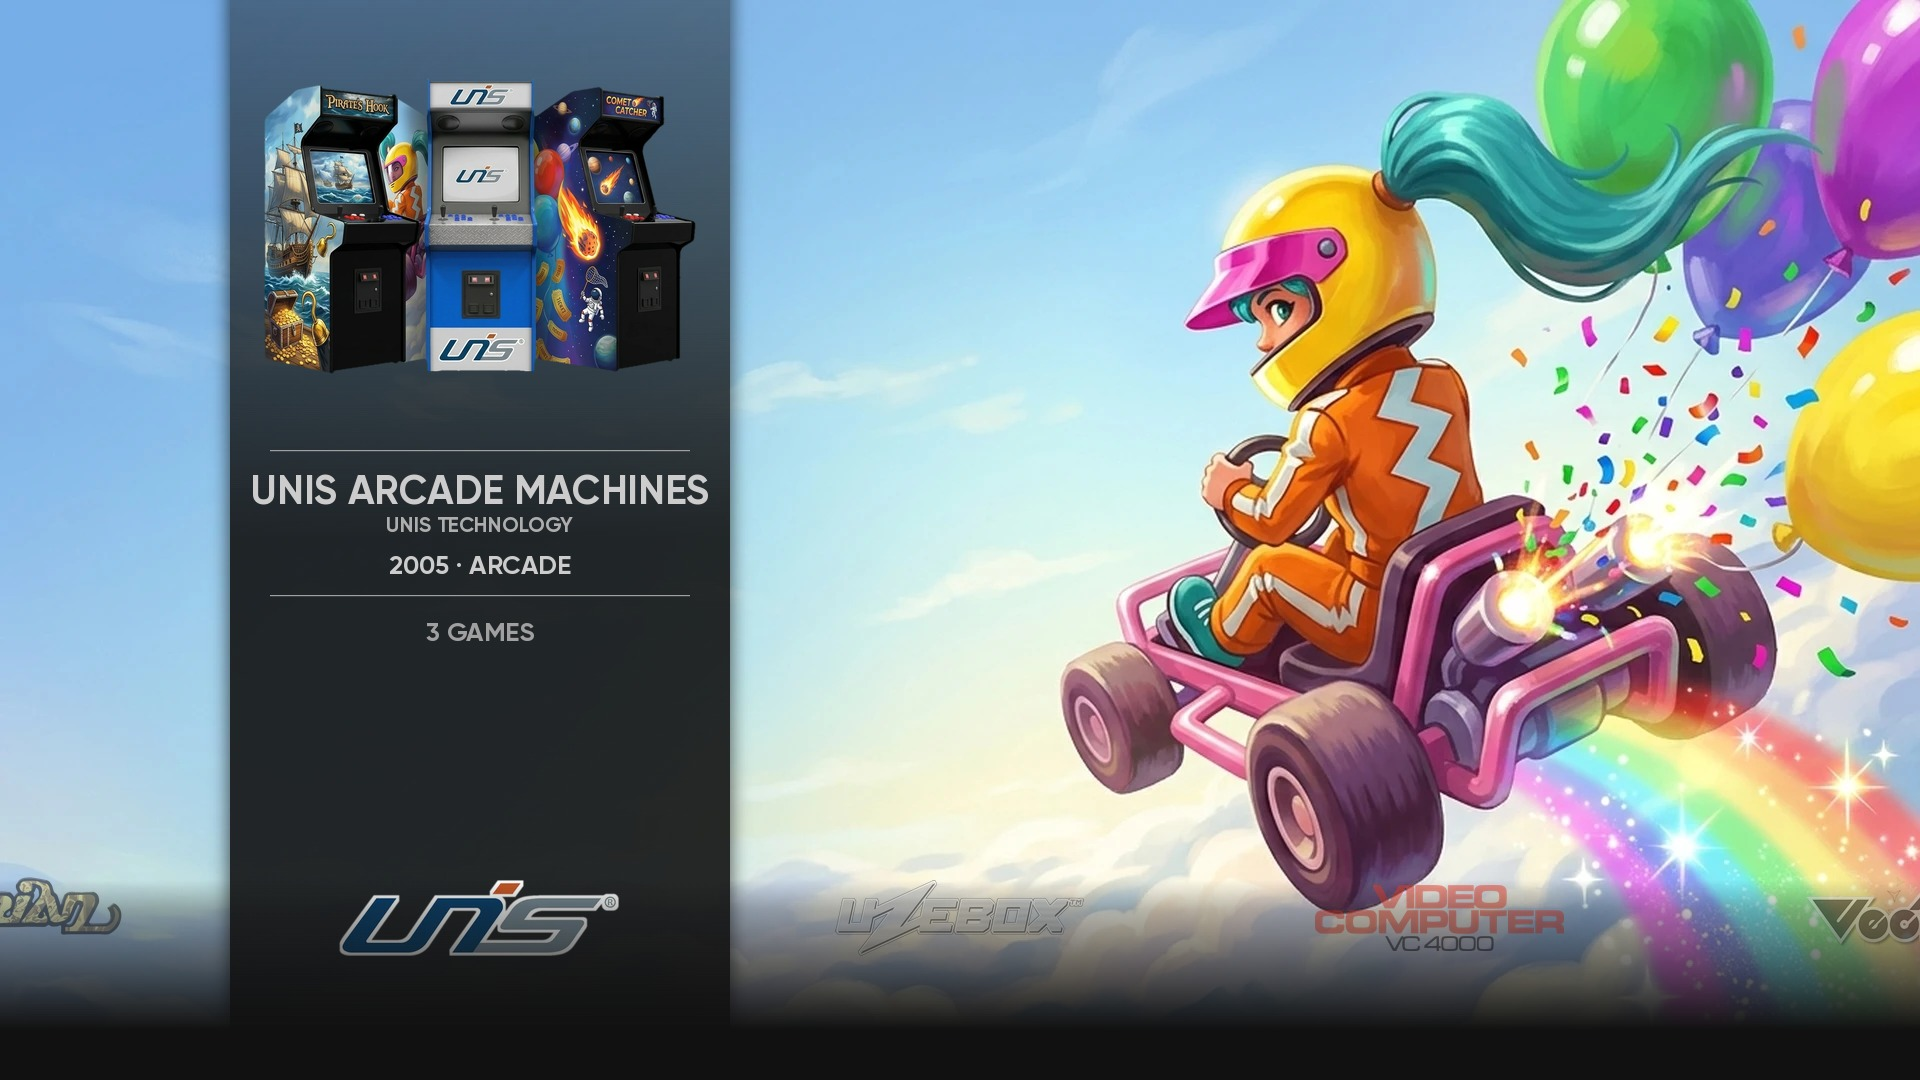
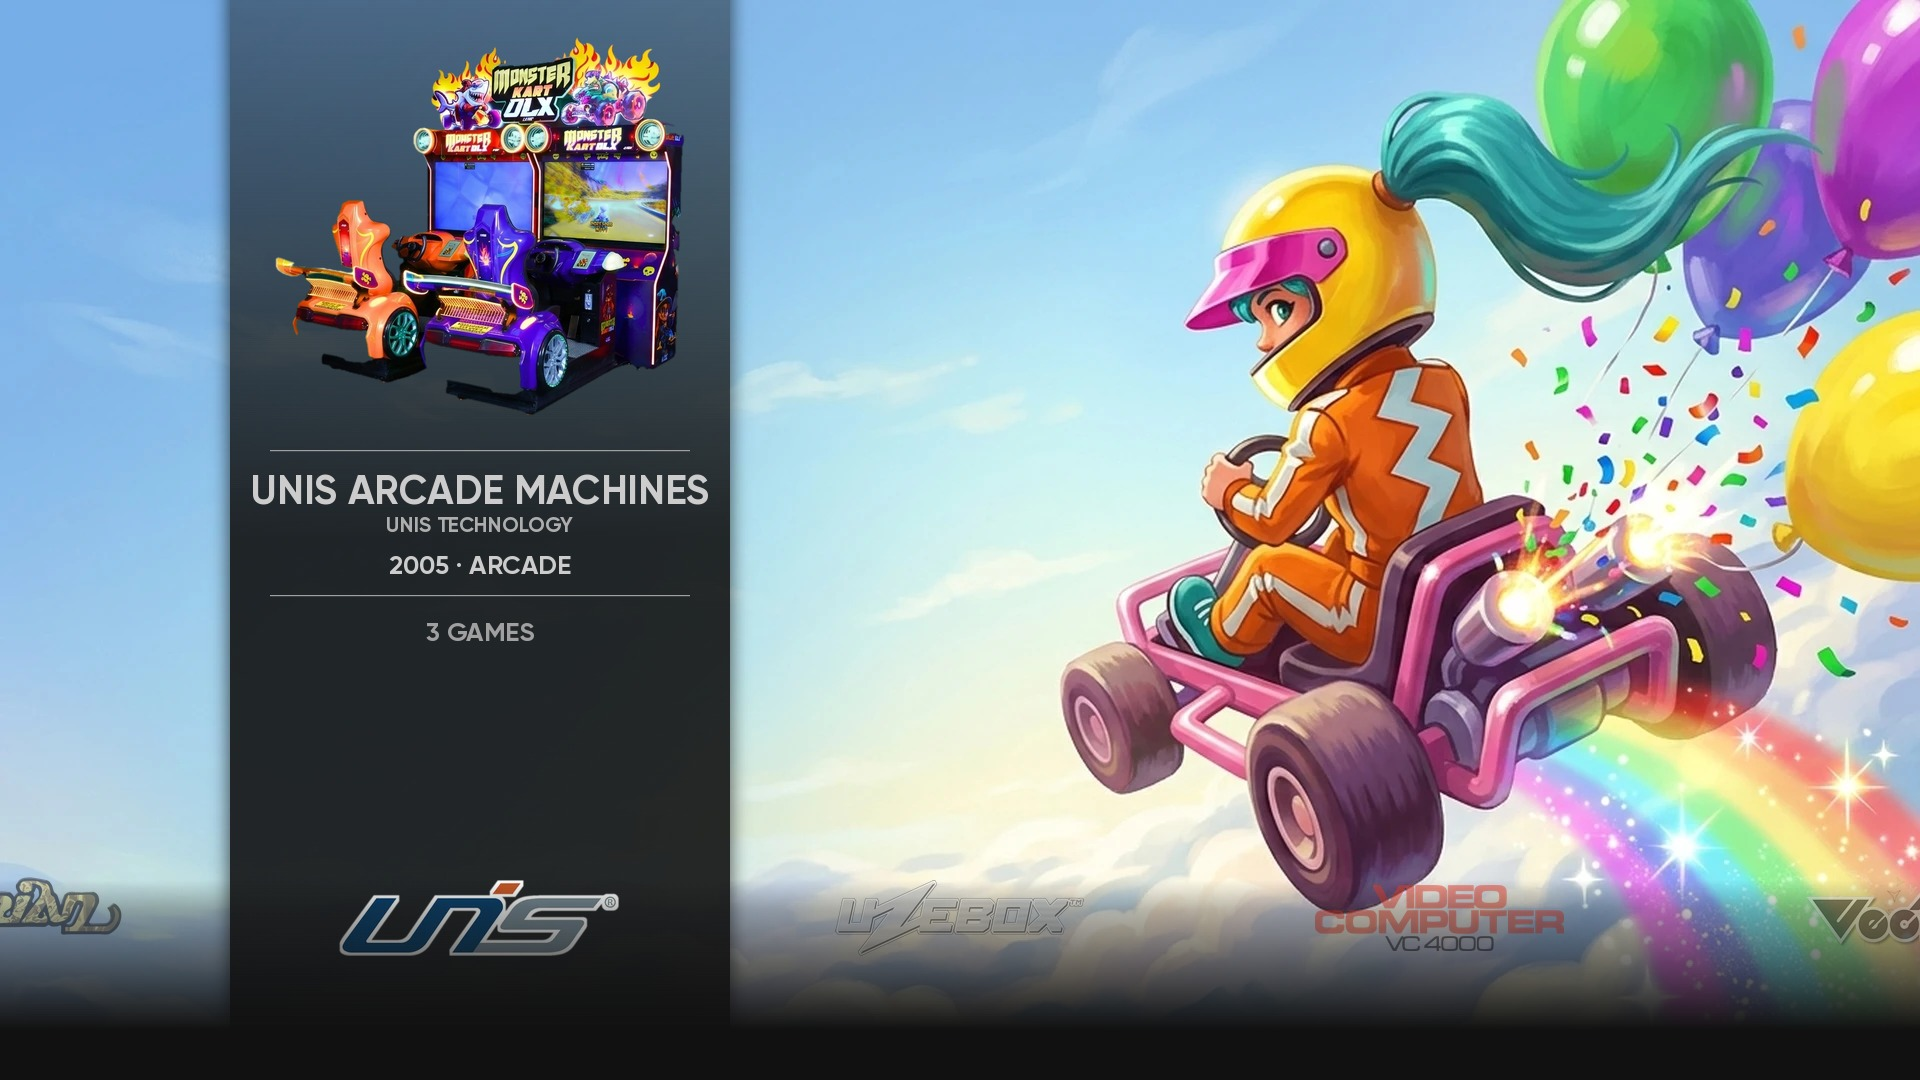
unis: use the real UNIS Monster Kart DLX kart cabinet as the system image
Claude-Session: https://claude.ai/code/session_01LEK4aEijtWqzGzXe9pLeKc

Changed region(s): [[0.125, 0.0306, 0.375, 0.3972]]

diff --git a/CREDITS-TPN.md b/CREDITS-TPN.md
@@ -73,7 +73,7 @@ Per-system sources are listed in _tools/salvage_log.tsv.
 - PolyGame Master (igspgm): background and three-cabinet system image generated with Google Gemini (original general and boar, inspired by Oriental Legend / Knights of Valour); logo from the TPN Carbon theme, sticker-styled.
 - Sony ZN (zinc): background and three-cabinet system image generated with Google Gemini (side cabinets show the real games Rival Schools and Street Fighter EX2 Plus, artwork Gemini-generated in the games' style; background an original schoolboy); logo from the TPN Carbon theme, sticker-styled.
 - Gaelco PowerVR (gaelco): background generated with Google Gemini (original pizza courier, inspired by Radikal Bikers); system image is the TPN Carbon PixN Gaelco A.V. TRACK cabinet; logo from the TPN Carbon theme, sticker-styled.
-- UNIS Arcade Machines (unis): background and three-cabinet system image generated with Google Gemini (original kart racer; side cabinets show the real UNIS games Pirate's Hook and Comet Catcher, artwork Gemini-generated in the games' style); logo from the TPN Carbon theme, sticker-styled.
+- UNIS Arcade Machines (unis): background and three-cabinet system image is a Google Gemini re-render of the real UNIS Monster Kart DLX kart cabinet from a UNIS product photo supplied by the owner (background an original kart racer); logo from the TPN Carbon theme, sticker-styled.
 - RAW Thrills (rawthrills): background generated with Google Gemini (original unbadged coupe, inspired by The Fast and the Furious); system image is a Google Gemini three-cabinet group built from the TPN Carbon PixN RAW Thrills cabinet (side cabinets show the real RAW Thrills games Jurassic Park Arcade and Aliens Armageddon, artwork Gemini-generated in the games' style); logo from the TPN Carbon theme on a black plate, sticker-styled.
 
 - Game Wave Family Entertainment System (gamewave): background and system image generated with Google Gemini (original robot game-show host with a glowing question mark; system image is a Gemini render based on the TPN Carbon console picture); logo from the TPN Carbon theme, sticker-styled.

diff --git a/NIGHTLY_LOG.md b/NIGHTLY_LOG.md
@@ -415,3 +415,6 @@ Five systems finished in total: studio2, orao, ondra, n501, pippin.
 
 ## 2026-10-12 audit - real cabinets in three-cabinet groups
 Checked every group. Already real: segasystem32 (Golden Axe, Alien Storm), aleck64 (Star Soldier: Vanishing Earth, Eleven Beat), igspgm (Oriental Legend, Knights of Valour), namco11 (Tekken 2, Soul Edge), hikaru (Star Wars Racer Arcade). Redone with real games: neogeo64 (Samurai Shodown 64, Fatal Fury: Wild Ambition), zinc (Rival Schools, Street Fighter EX2 Plus), unis (Pirate's Hook, Comet Catcher - real UNIS ticket-redemption titles drawn as upright cabinets), rawthrills (Jurassic Park Arcade, Aliens Armageddon). Marquee/side art is Gemini-generated in each game's style, not official art. unis and rawthrills re-keyed with work/tmp/key2.py (cleaner edges than cutout_green.py on dark cabinets). Old versions kept as *_v2_invented_games.png in sources. Zip iconic-tpn_20261012_b.zip is stale; rebuild before release.
+
+## 2026-10-12 unis system image replaced
+User supplied a UNIS product photo of Monster Kart DLX (twin sit-in kart cabinet, UNIS logo on marquee). Gemini re-render on green, cut out with work/tmp/key2.py, installed as controllers/unis.webp. Replaces the three-upright group (kept as sources/unis/unis_cab_threecab_realgames.png). It suits the kart-girl background far better.
